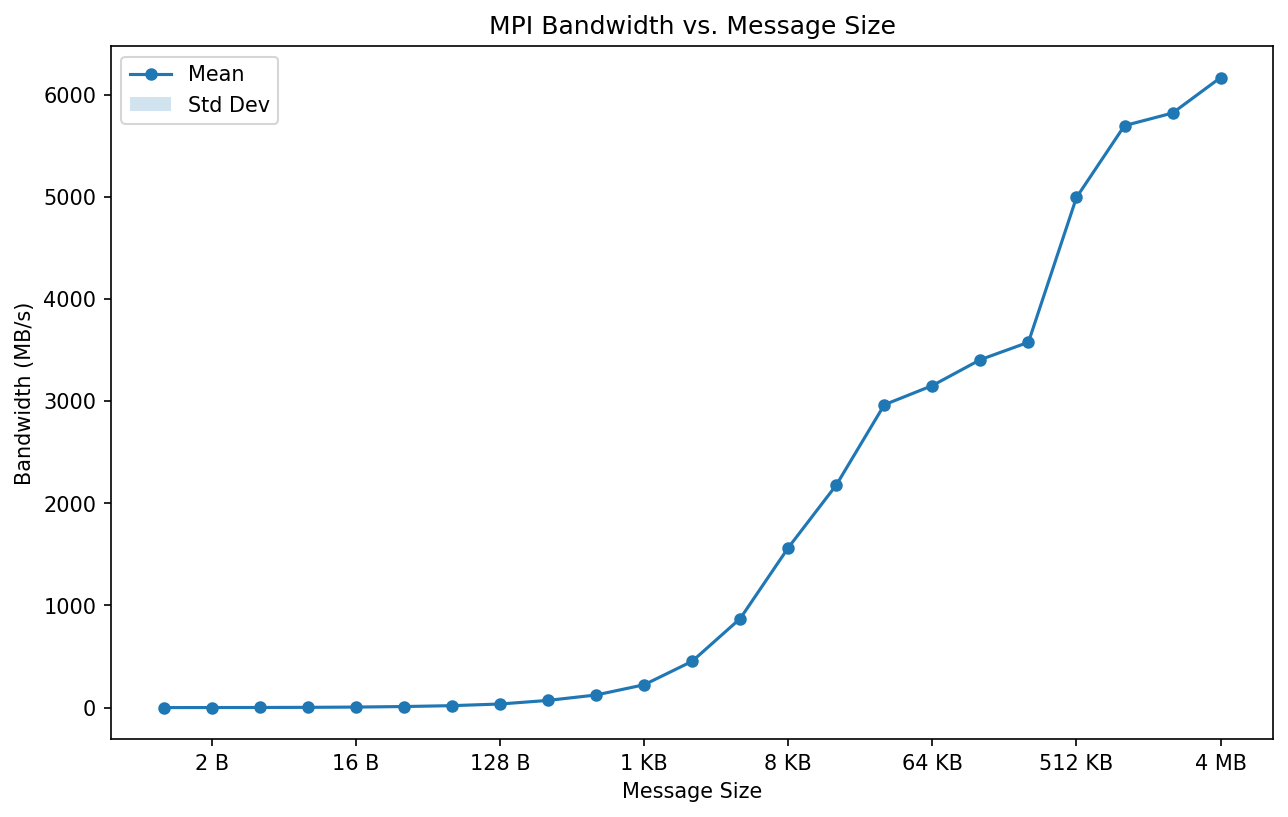
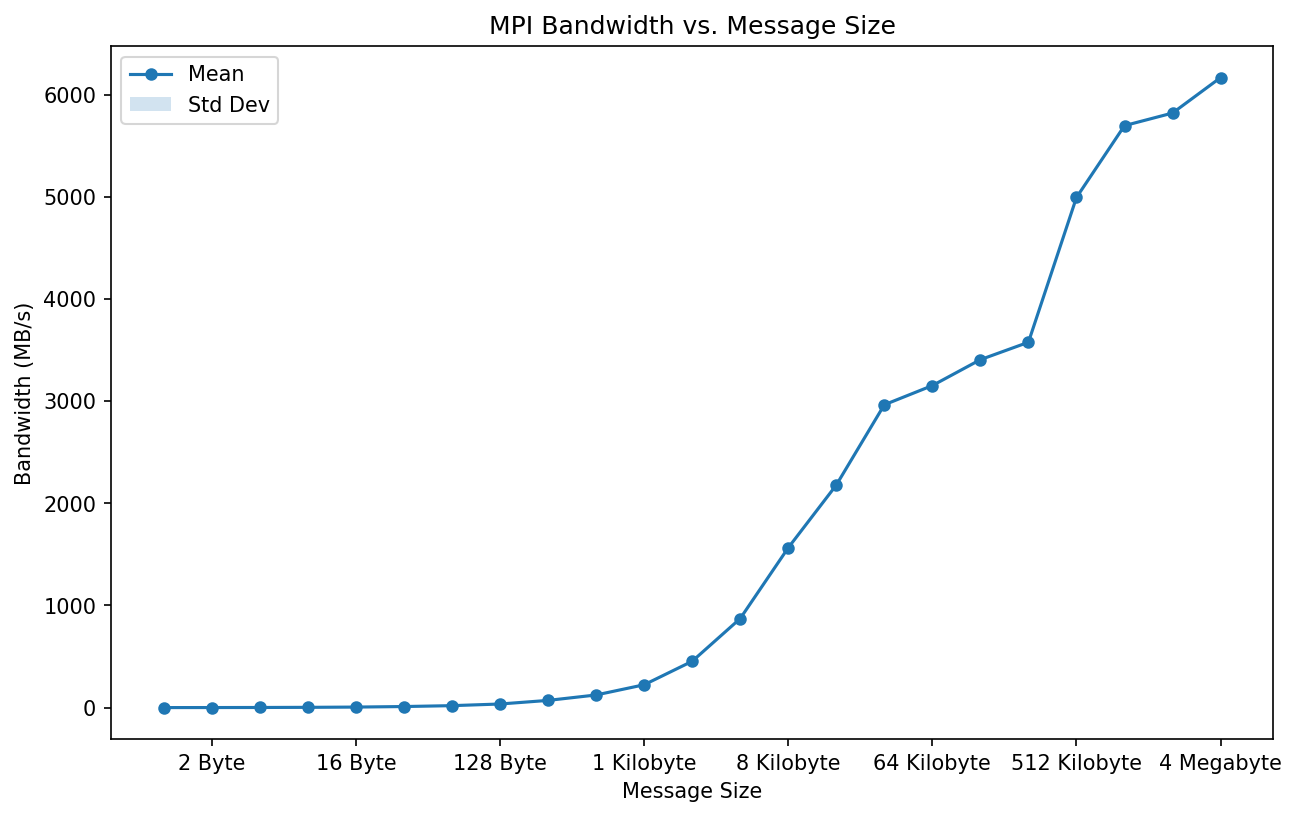
Use full unit names (Byte, Kilobyte, Megabyte) on x-axis

diff --git a/plot.py b/plot.py
@@ -32,11 +32,11 @@ def main():
 
     def size_formatter(x, pos):
         if x >= 1024 * 1024:
-            return f'{x / (1024 * 1024):.0f} MB'
+            return f'{x / (1024 * 1024):.0f} Megabyte'
         elif x >= 1024:
-            return f'{x / 1024:.0f} KB'
+            return f'{x / 1024:.0f} Kilobyte'
         else:
-            return f'{x:.0f} B'
+            return f'{x:.0f} Byte'
 
     ax.set_xscale('log', base=2)
     ax.xaxis.set_major_formatter(ticker.FuncFormatter(size_formatter))
